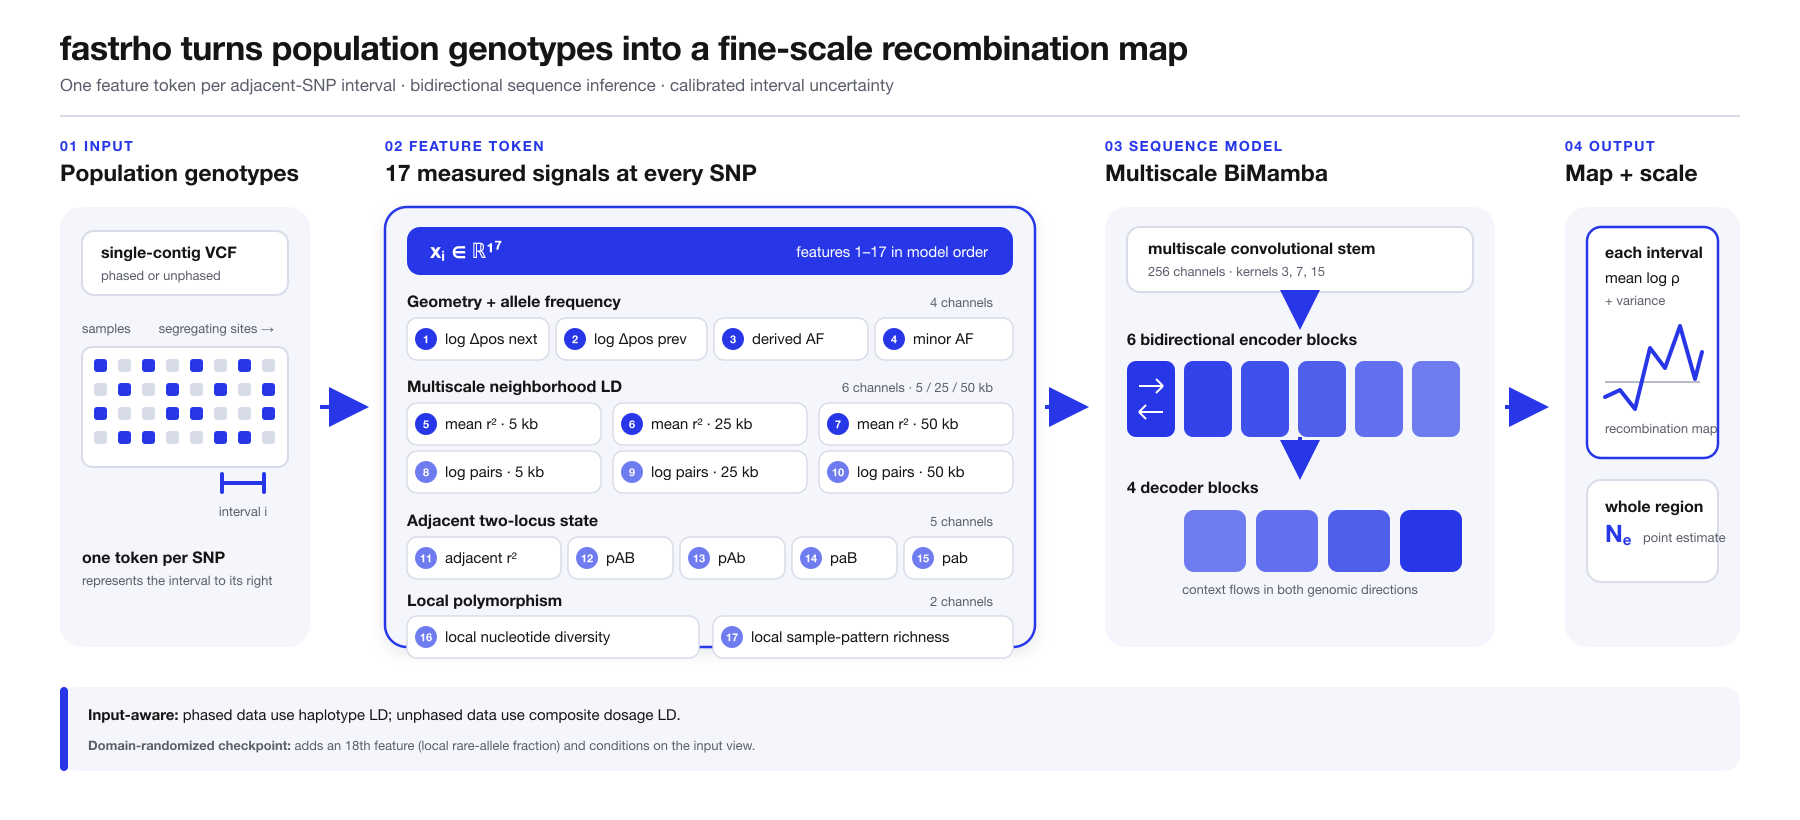
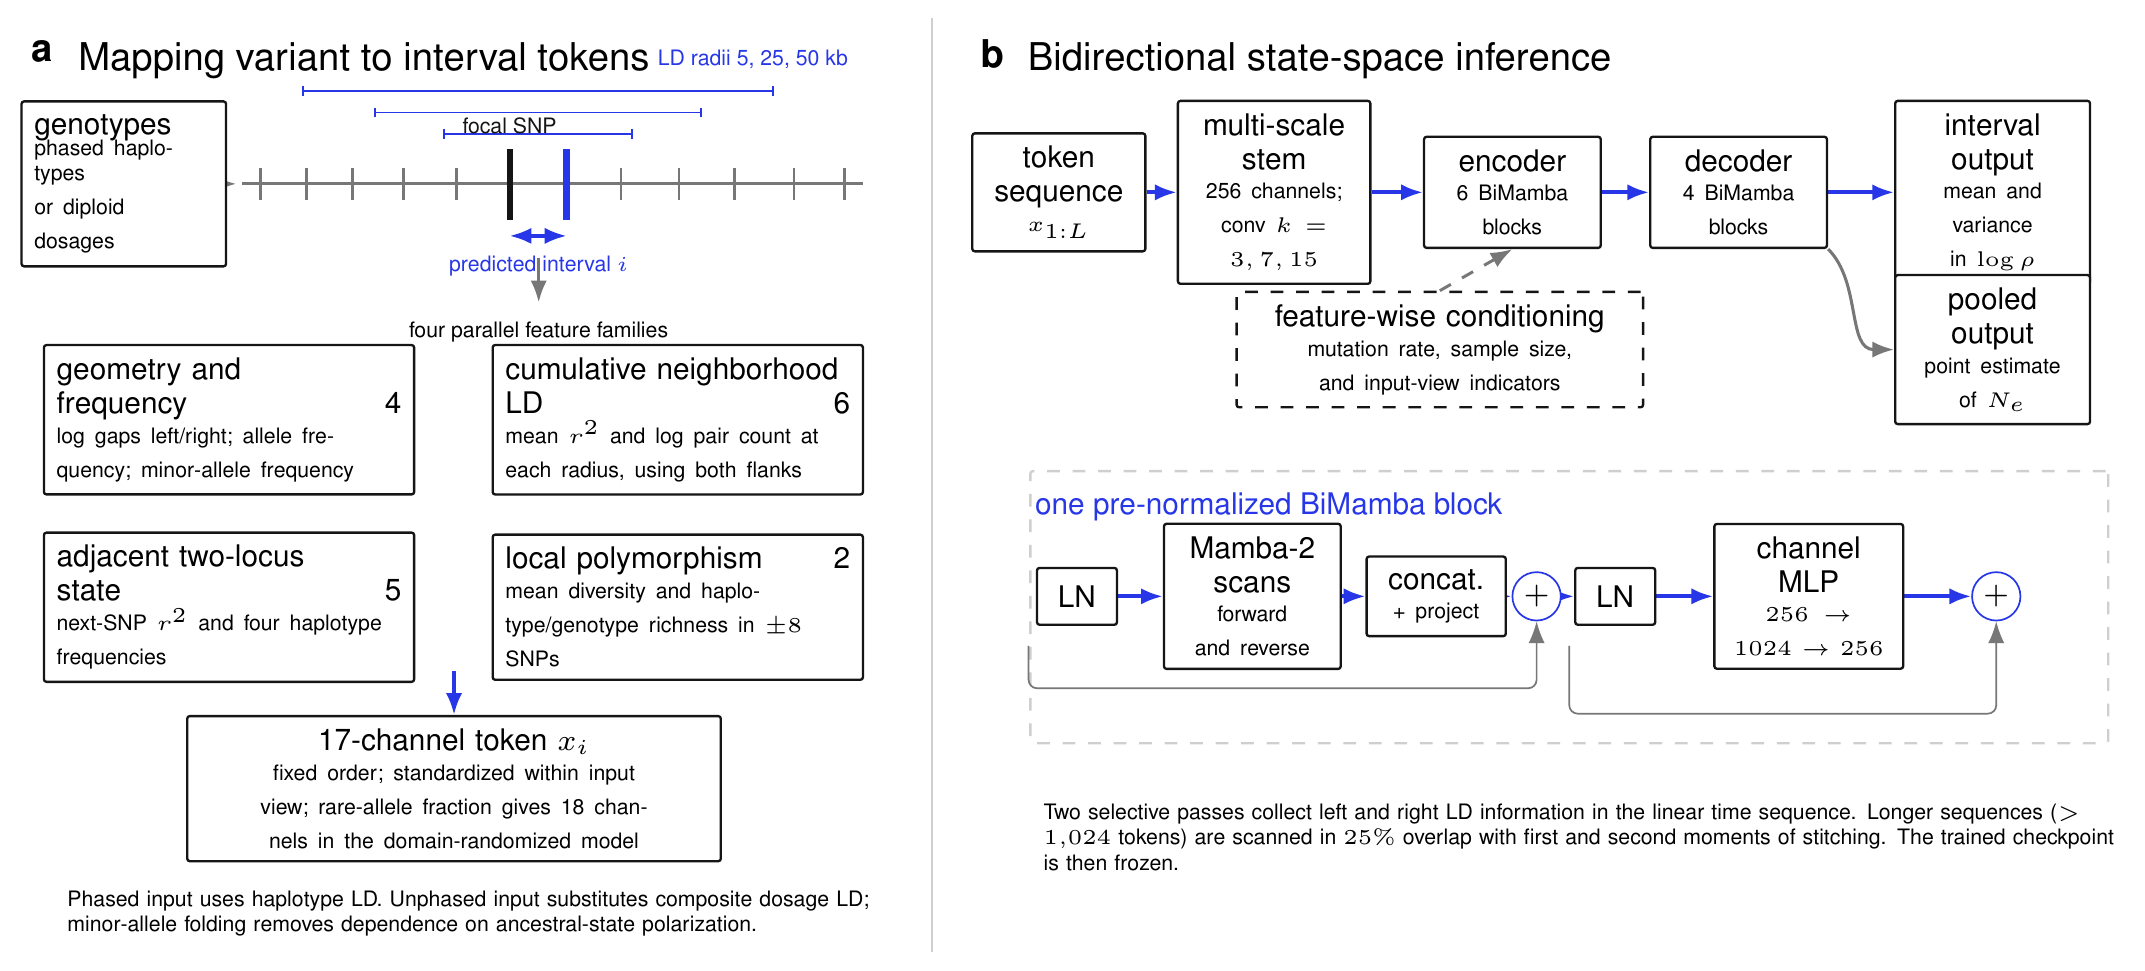
use paper schematic in README (#11)

diff --git a/README.md b/README.md
@@ -13,9 +13,7 @@
 </p>
 
 <p align="center">
-  <img src="https://raw.githubusercontent.com/kevinkorfmann/fastrho/main/docs/_static_public/fastrho_schematic.png" width="960" alt="fastrho schematic showing all 17 input features, six bidirectional Mamba encoder blocks, four decoder blocks, interval recombination-rate output, and a regional effective-population-size estimate">
-  <br>
-  <sub><a href="https://raw.githubusercontent.com/kevinkorfmann/fastrho/main/docs/_static_public/fastrho_schematic.svg">Download the full-resolution SVG</a></sub>
+  <img src="https://raw.githubusercontent.com/kevinkorfmann/fastrho/main/docs/_static_public/fastrho_schematic.png" width="960" alt="Paper schematic showing the mapping from population genotypes to interval tokens, bidirectional state-space inference, interval recombination-rate output, and a regional effective-population-size estimate">
 </p>
 
 `fastrho` infers fine-scale recombination maps from population genotypes using pretrained neural
